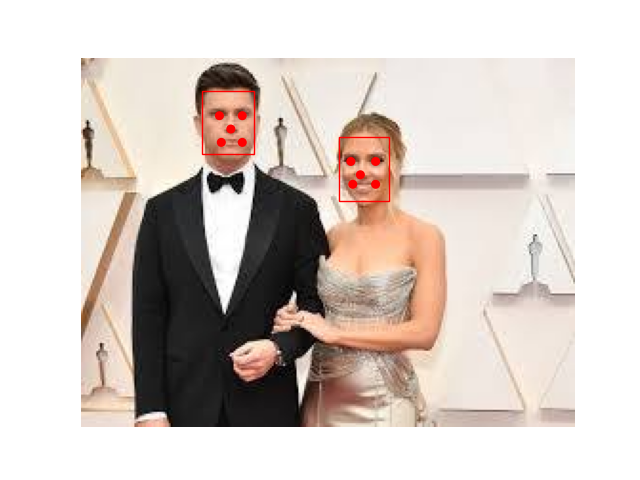
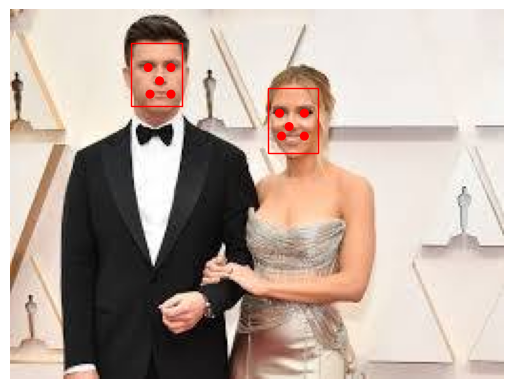
Remove margins from saved images

diff --git a/Face Detection using Deep Learning/frDL.py b/Face Detection using Deep Learning/frDL.py
@@ -55,7 +55,8 @@ def draw_image_with_boxes(data, result_list,i):
             ax.add_patch(dot)
     #show final plot
     plt.axis("off")
-    plt.savefig("result{}".format(i))
+    plt.margins(0, 0)
+    plt.savefig("result{}".format(i),bbox_inches='tight')
     plt.show()
 
 #draw found faces subplot
@@ -68,9 +69,10 @@ def draw_faces(data, result_list,j):
         #define subplot
         plt.subplot(1, len(result_list), i+1)
         plt.axis("off")
+        plt.margins(0,0)
         #plot face
         plt.imshow(cv2.cvtColor(data[y1:y2,x1:x2], cv2.COLOR_BGR2RGB))
-    plt.savefig("faces{}.jpg".format(j))
+    plt.savefig("faces{}.jpg".format(j),bbox_inches='tight')
     plt.show()
     return
 
